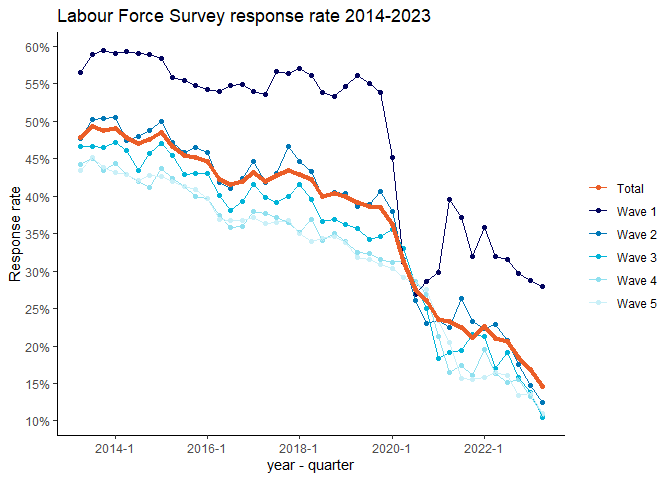
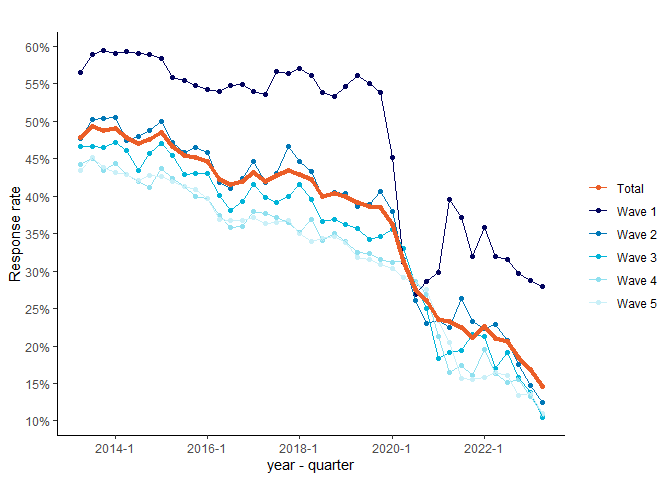
update plot

Changed region(s): [[0.0938, 0.0, 0.6562, 0.0625]]

diff --git a/README.md b/README.md
@@ -54,7 +54,14 @@ quarter 2. Analysis of data from the LFS, particularly from 2020
 onwards, should consider the potential impact of these very low response
 rates, especially when conducting subgroup analysis.
 
-<img src="man/figures/README-unnamed-chunk-2-1.png" width="100%" />
+<div class="figure">
+
+<img src="man/figures/README-unnamed-chunk-2-1.png" alt="Labour Force Survey response rate 2014-2023" width="80%" />
+<p class="caption">
+Labour Force Survey response rate 2014-2023
+</p>
+
+</div>
 
 ## Installation
 
